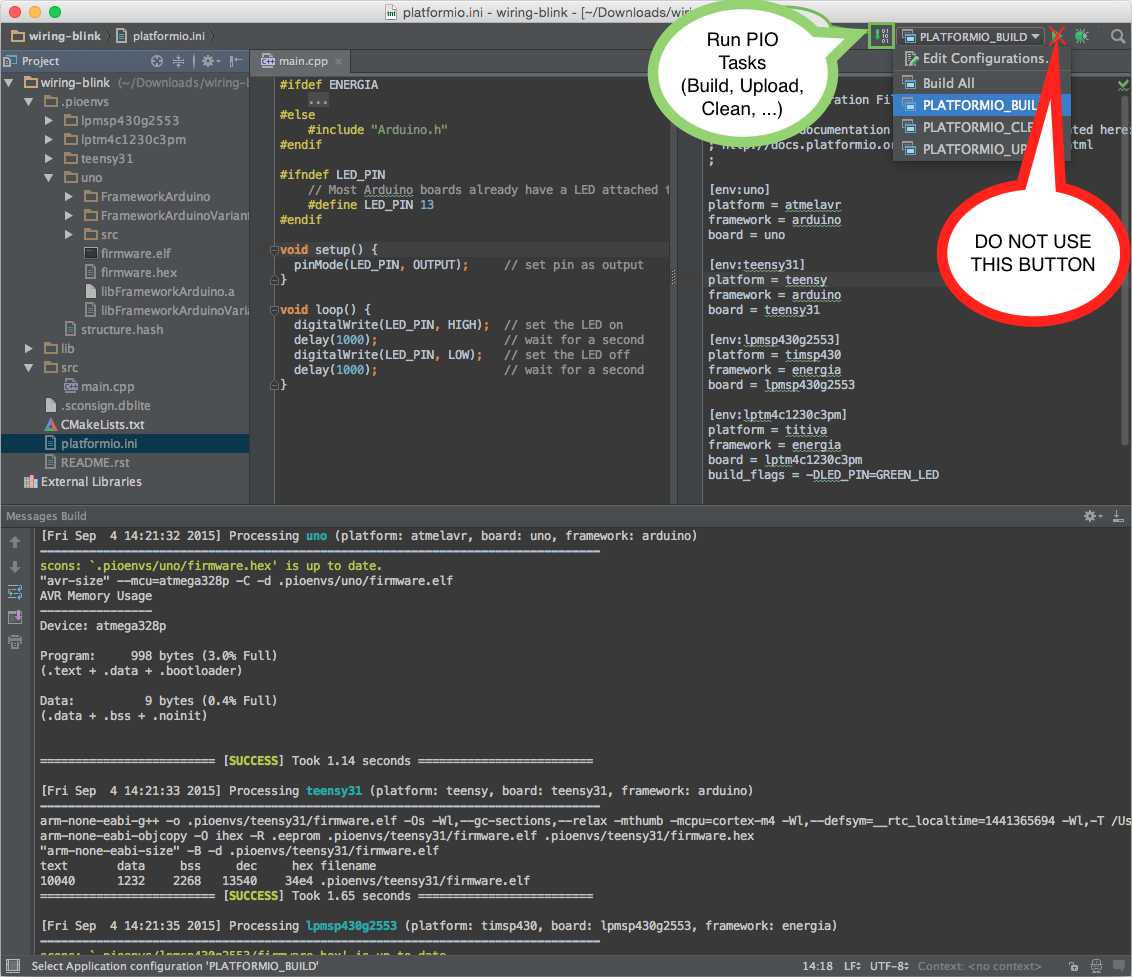
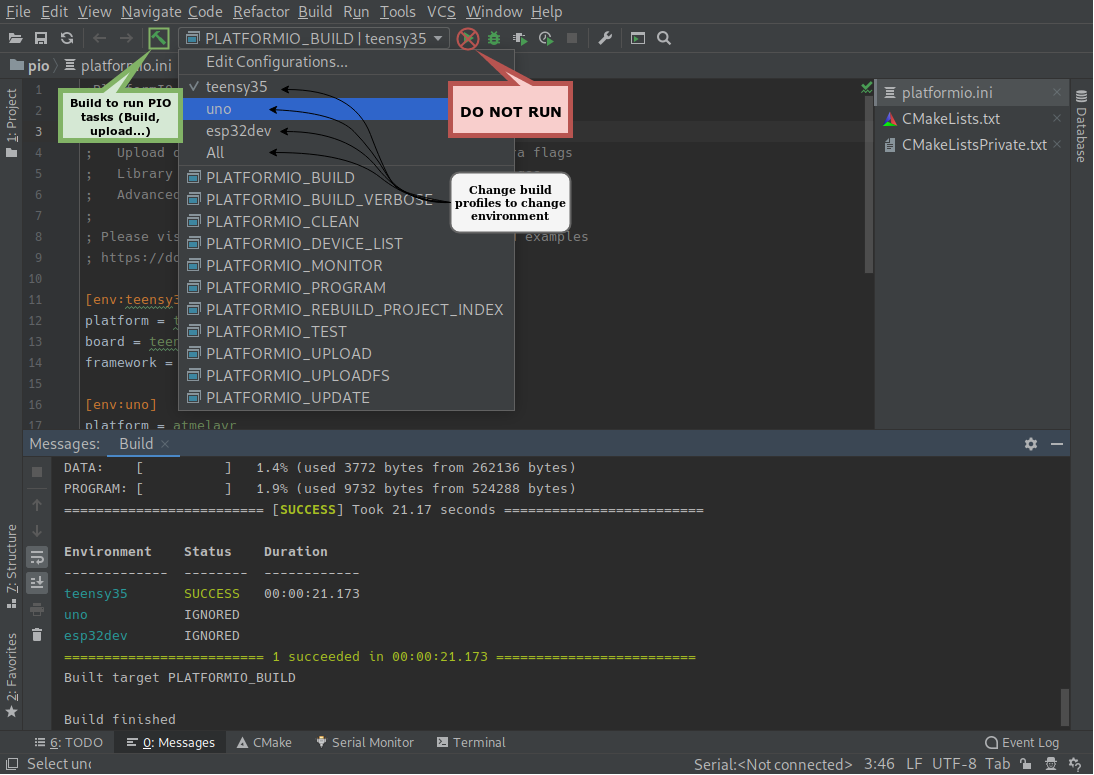
Updated CLion doc for https://github.com/platformio/platformio-core/issues/2824 Updated CLion image

diff --git a/ide/clion.rst b/ide/clion.rst
@@ -66,7 +66,7 @@ Then:
 
 .. warning::
 
-    1. :ref:`piocore` **DOES NOT** depend on ``Cmake``, it has own cross-platform
+    1. :ref:`piocore` **DOES NOT** depend on ``CMake``, it has own cross-platform
        Build System. All data related to build flags and source code filtering
        should be specified using :ref:`projectconf_section_env_build` in
        :ref:`projectconf`.
@@ -74,7 +74,7 @@ Then:
     2. See know issue: :ref:`ide_clion_knownissues_inopde_not_supported` and how
     to resolve it.
 
-There are 6 predefined targets for building (*NOT FOR RUNNING*, see marks on
+There are 11 predefined targets for building (*NOT FOR RUNNING*, see marks on
 the screenshot above):
 
 * ``PLATFORMIO_BUILD`` - Build project without auto-uploading
@@ -90,6 +90,13 @@ the screenshot above):
 * ``PLATFORMIO_UPDATE`` - Update installed platforms and libraries via :ref:`cmd_update`
 * ``PLATFORMIO_REBUILD_PROJECT_INDEX`` - Rebuild C/C++ Index for the Project.
   Allows one to fix code completion and code linting issues.
+* ``PLATFORMIO_DEVICE_LIST`` - List connected devices.
+
+If you have multiple environements, you can select which one the target is going to use by 
+changing the build profile (See screenshot). Changing the build profile also updates 
+defines and includes for code completion in the editor to those specified by the environement.
+
+The profile ``All`` runs the target for all environements ; this was the previous behavior.
 
 .. warning::
     The libraries which are added, installed or used in a project after
